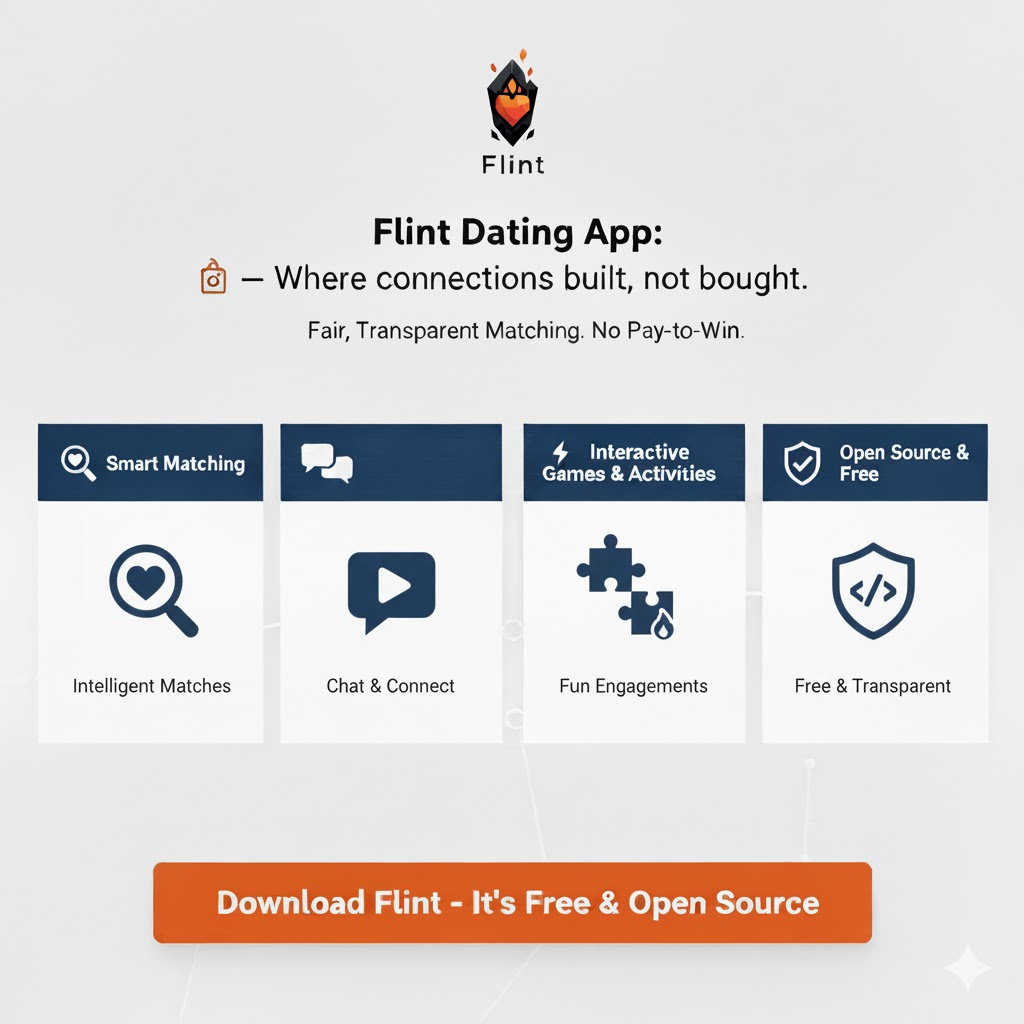
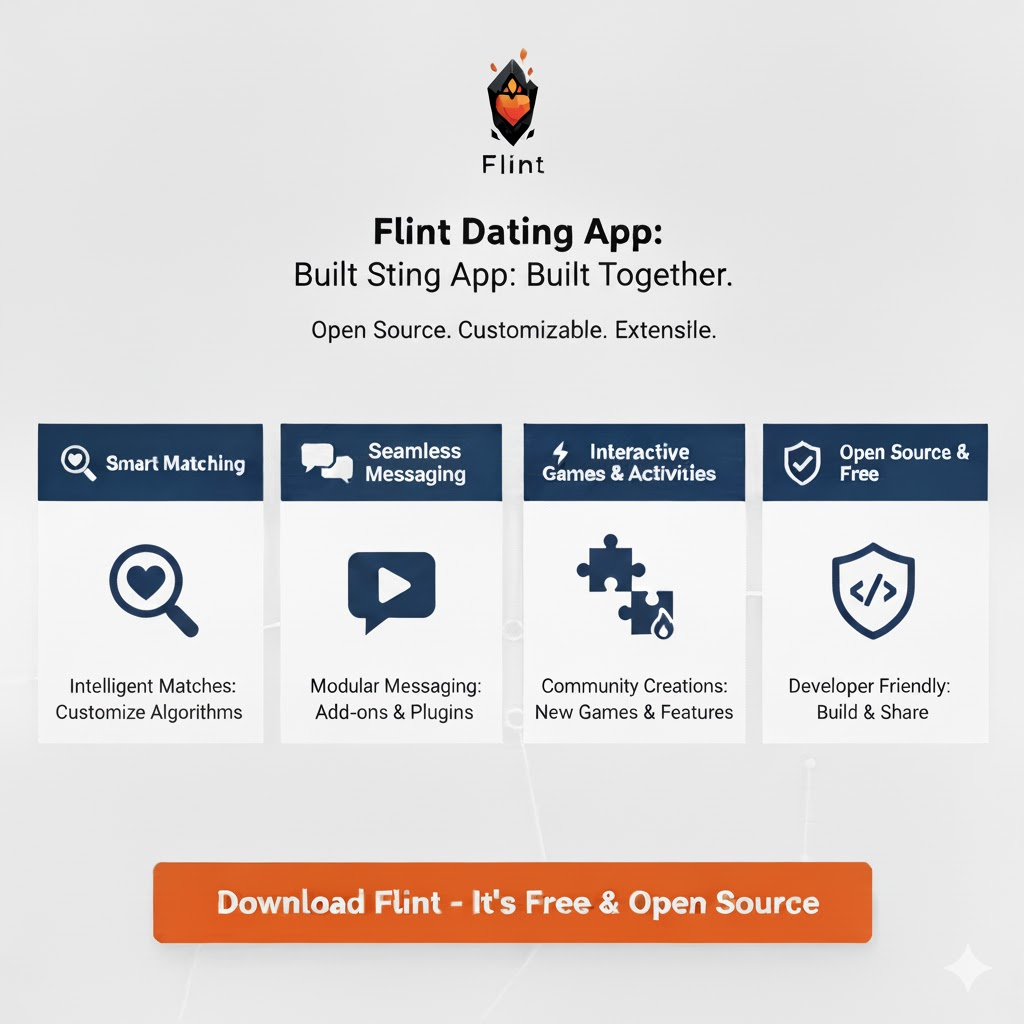
- Changes

diff --git a/_projects/4_project.md b/_projects/4_project.md
@@ -64,5 +64,5 @@ The core features alluded to above will include all of the same key pillars as f
     </div>
 </div>
 <div class="caption">
-    Notional road map of near future Flint development.
+    Some core, intended features of the app.
 </div>
